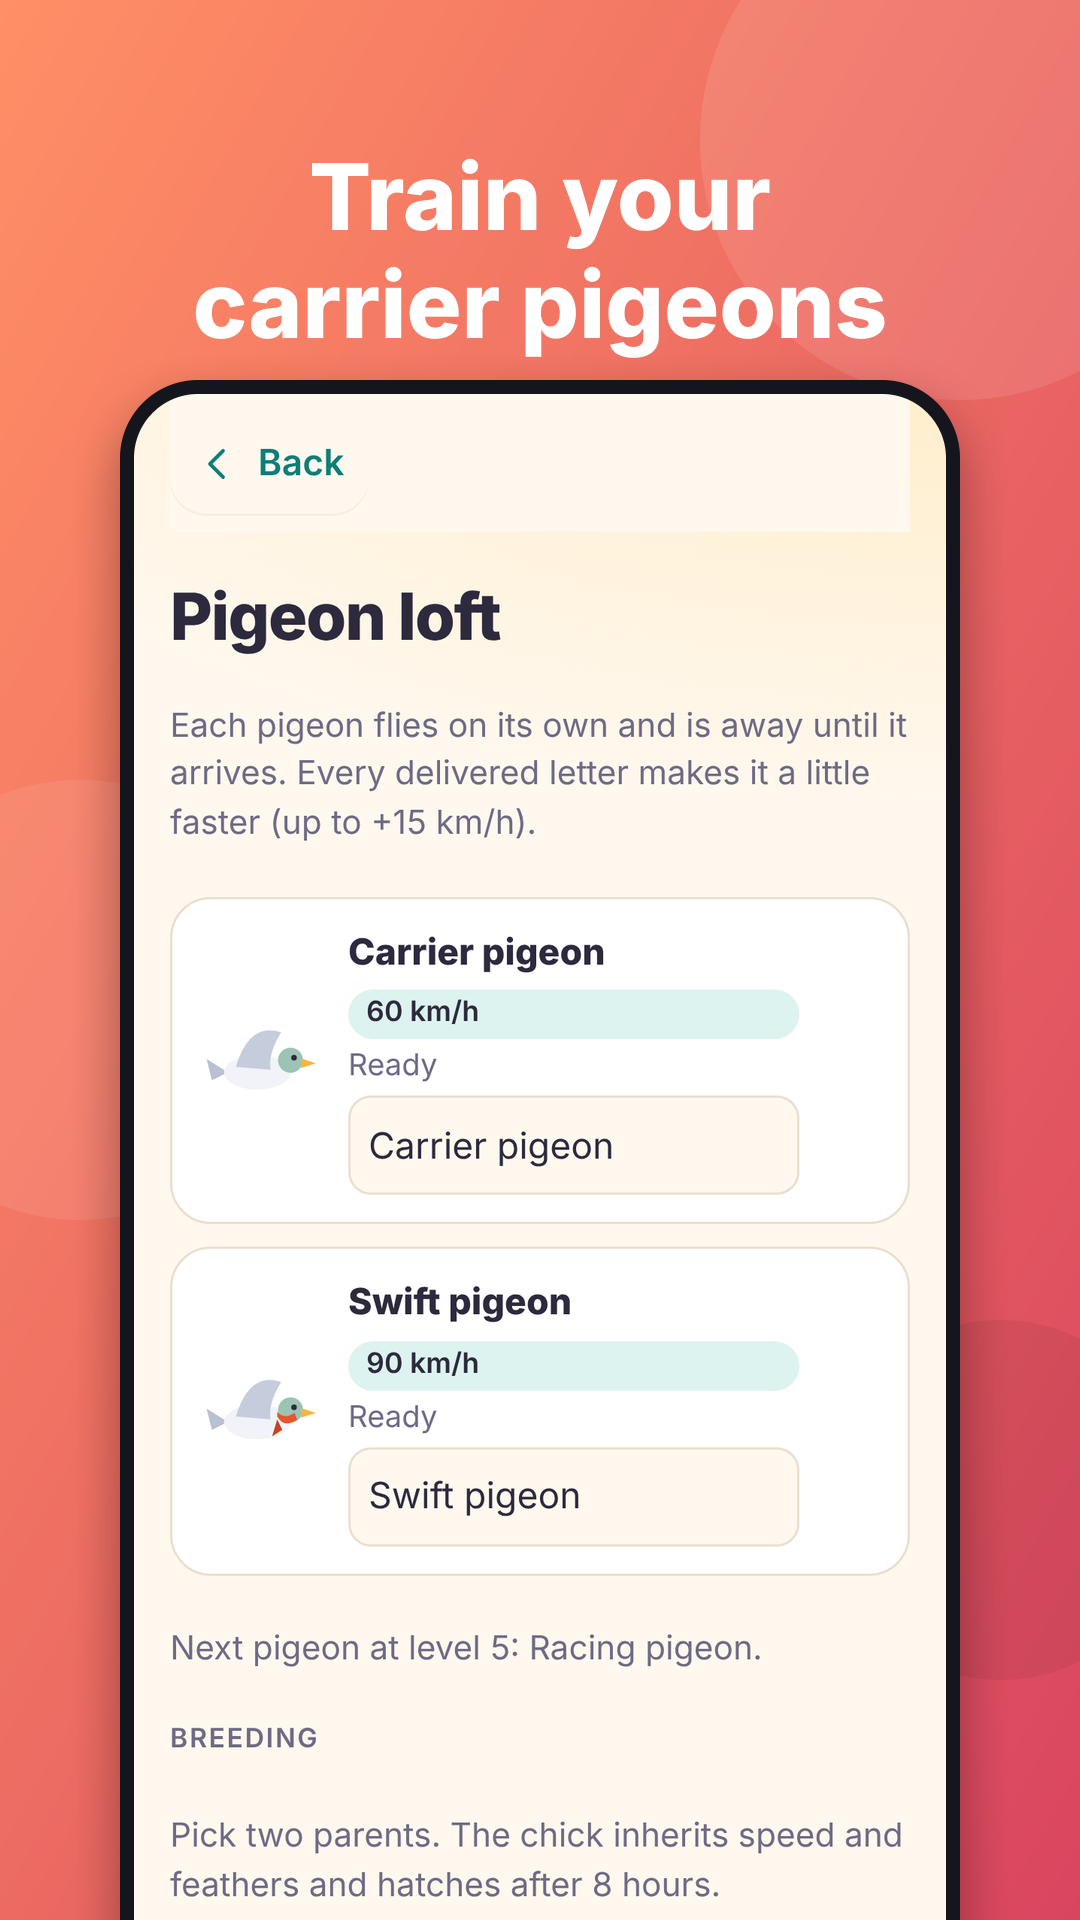
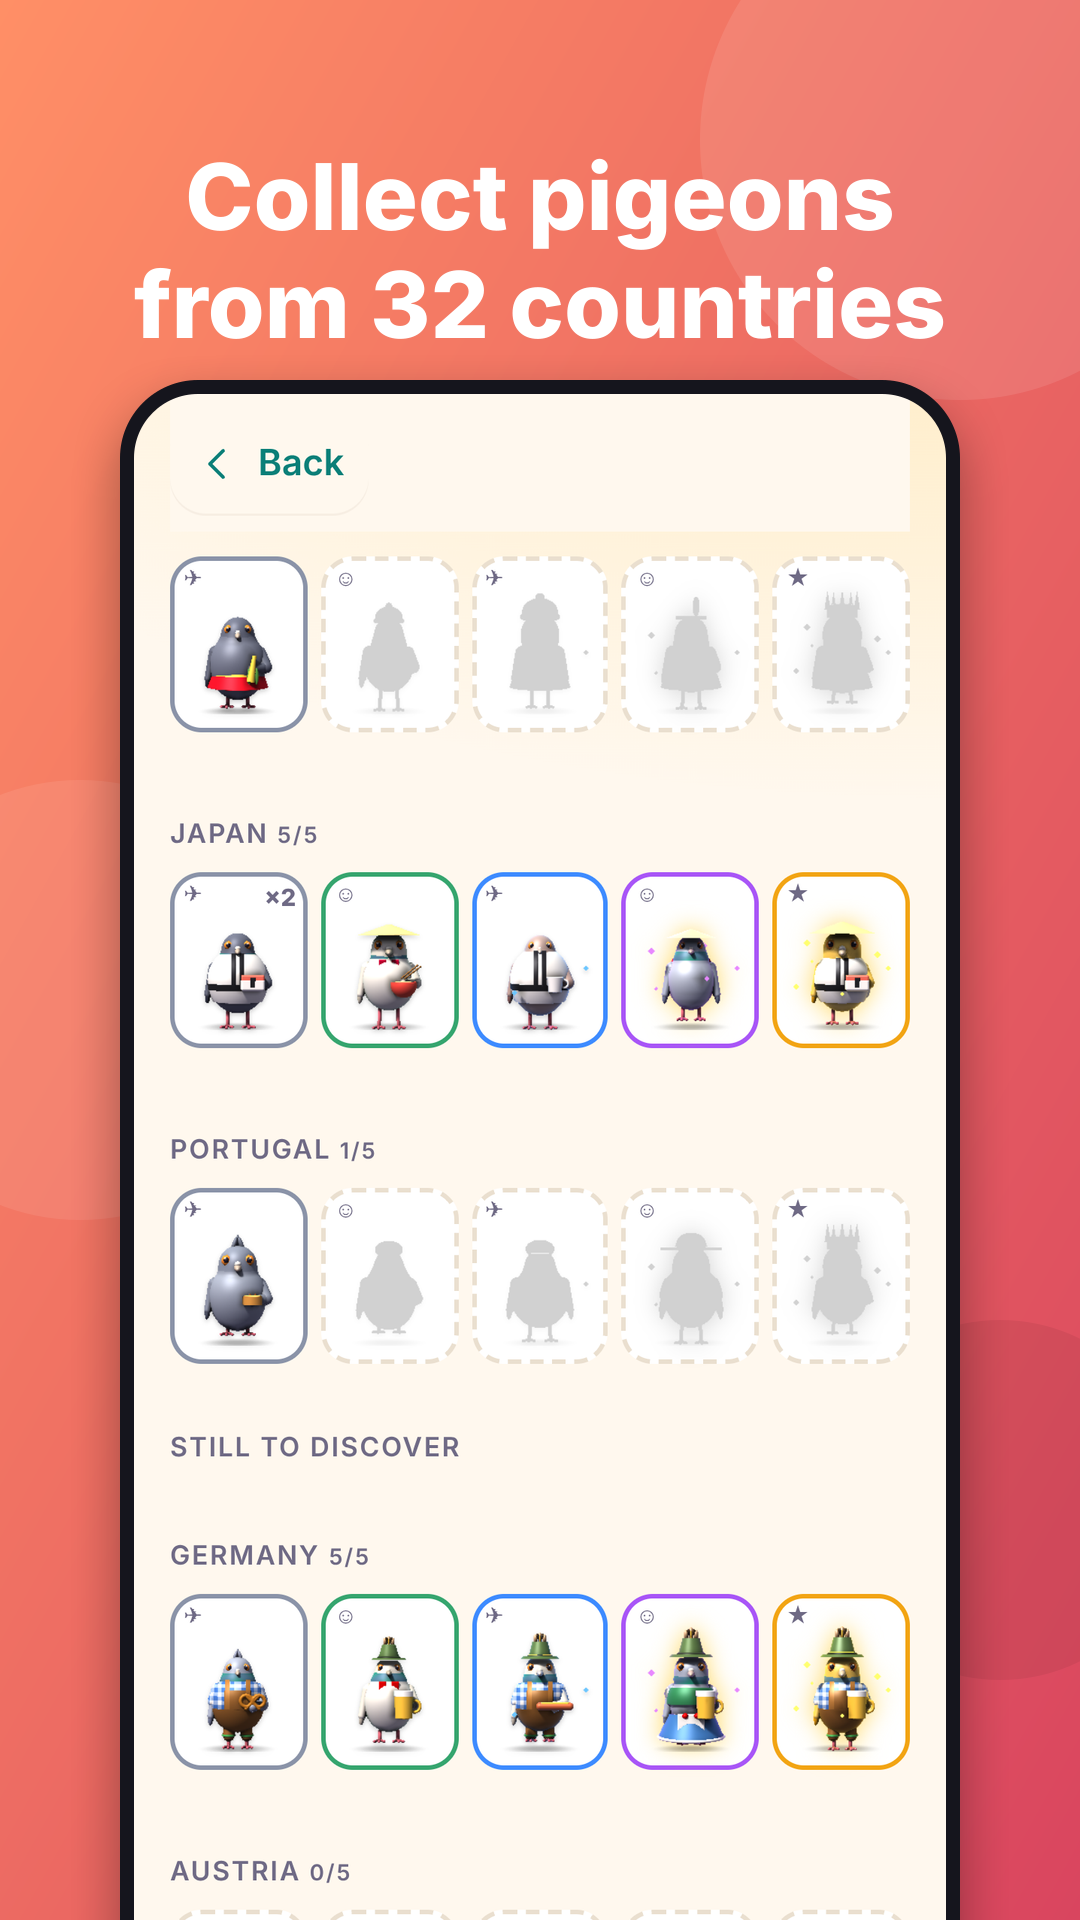
Play-Store: neue Taubendex-Screenshots, ausführliche Veröffentlichungs-Anleitung
Claude-Session: https://claude.ai/code/session_01Ppo7auZkduvcwBmJg8G76E

diff --git a/store/PLAY-CHECKLISTE.md b/store/PLAY-CHECKLISTE.md
@@ -1,12 +1,41 @@
-# Play-Store-Checkliste Waypals (Stand 17.10.2026)
+# Google Play Veröffentlichung – Waypals (Stand 19.10.2026)
 
-Ich kann hier kein Android-Paket bauen und mich nicht in dein Play-Konto einloggen; diese Schritte musst du selbst klicken (je ca. 5 Minuten):
+Bereit (von mir erledigt): Texte, Grafiken, Formular-Antworten, Datenschutz- und Löschseite, Manifest, Icons, assetlinks-Vorlage.
+Von dir zu klicken (kann ich nicht: kein Zugang zu deinem Play-Konto, kein Android-Build hier): Schritte A–F.
 
-1. Play-Entwicklerkonto anlegen (25 US-$, Identitätsprüfung) – https://play.google.com/console
-2. Paket bauen: https://www.pwabuilder.com → URL https://loliskos-hash.github.io/Waypals/ → Package for stores → Android. Paketname z. B. de.ludeldoo.waypals. Die .aab-Datei und den SHA-256-Fingerabdruck sichern (Schlüssel + Passwort gut aufheben!).
-3. Fingerabdruck und Paketname in .well-known/assetlinks.json eintragen (aktuell noch Platzhalter) – schick mir beides, dann trage ich es ein und pushe. Bei Play App Signing zusätzlich den Fingerabdruck aus der Play Console (Einrichtung → App-Signatur) ergänzen.
-4. App erstellen, .aab in den Test-Track „Geschlossener Test“ hochladen.
-5. 12 Tester per E-Mail eintragen; sie müssen 14 Tage lang angemeldet bleiben, erst dann „Produktion beantragen“.
-6. Texte: store/store-listing.md (jetzt inkl. Taubendex). Grafiken: store/ bzw. Ordner store-upload.
-7. Pflichtformulare: Datenschutz-URL, Datensicherheit, Inhaltseinstufung, Zielgruppe 16+, Konto-Löschung (URL steht in store-listing.md).
-8. Namens-Check: siehe Markenprüfung – vor dem Start entscheiden.
+## Vorab: Namensentscheidung
+Siehe Markenprüfung: „Waypals“ kann mit bestehenden Marken kollidieren. Entscheide vor dem Anlegen der App – der Name lässt sich später nur eingeschränkt ändern. Der Paketname (z. B. de.ludeldoo.waypals) ist dauerhaft.
+
+## A. Konto
+1. https://play.google.com/console → Entwicklerkonto (einmalig 25 US-$), Typ „Privatperson“ oder „Organisation“ (Ludeldoo). Identitätsprüfung (Ausweis, ggf. D-U-N-S bei Organisation).
+2. Bei neuen privaten Konten gilt: 12 Tester, 14 Tage geschlossener Test, bevor Produktion freigeschaltet wird.
+
+## B. Paket bauen (PWABuilder, kostenlos)
+1. https://www.pwabuilder.com → https://loliskos-hash.github.io/Waypals/ eingeben → Package for stores → Android (Google Play).
+2. Paketname: de.ludeldoo.waypals · App-Name: Waypals · Start-URL / Version 1 · „Signing key: New“ wählen.
+3. Download: .aab-Datei + Signing-Key (.keystore) + Passwort. Alles sicher sichern (verlorener Key = keine Updates).
+4. SHA-256-Fingerabdruck aus der Zip-Datei (signing-key-info.txt) notieren.
+
+## C. assetlinks (damit die App ohne Browserleiste läuft)
+Schick mir Paketname + SHA-256 (und den Fingerabdruck der Play-App-Signatur aus Play Console → Einrichtung → App-Integrität, sobald vorhanden). Ich trage beides in .well-known/assetlinks.json ein und pushe. Aktuell stehen dort Platzhalter.
+
+## D. App anlegen
+1. Play Console → App erstellen: Name, Sprache Deutsch, App, kostenlos.
+2. Store-Eintrag: Texte aus store-listing.md; Icon app-icon-512.png; Feature-Grafik feature-graphic-1024x500.png; Handy-Screenshots store/promo/ (8 Stück, 1080×1920 mit Rahmen) oder screenshot-1..4; Tablet-Screenshots store/promo-tablet/ (7"/10").
+3. Kategorie: Soziales Netzwerk oder Lifestyle. Kontakt-E-Mail: laura.kaesenheimer@gmail.com (oder Firmenadresse).
+4. Datenschutz-URL: https://loliskos-hash.github.io/Waypals/datenschutz.html
+
+## E. Pflichtformulare (Antworten siehe store-listing.md)
+- Datensicherheit: Name, E-Mail, Fotos, Nutzer-ID, App-Aktivität werden erhoben; zur App-Funktion/Kontoverwaltung; kein Verkauf, keine Werbung; verschlüsselt übertragen; Löschung auf Anfrage möglich. Lösch-URL: https://loliskos-hash.github.io/Waypals/loeschen.html
+- Inhaltseinstufung (IARC): Kategorie „Soziale Netzwerke/Kommunikation“; Nutzerinteraktion: ja; Standort teilen: nur wenn so implementiert (Heimatorte sind Texteingaben); keine Gewalt, Glücksspiel, Drogen. Ergebnis voraussichtlich ab 12.
+- Zielgruppe: 16+ (nicht an Kinder gerichtet). Anzeigen: Nein. Finanz-/Gesundheits-Funktionen: Nein. Nachrichten-/Regierungs-App: Nein.
+- Berechtigungen: Kamera/Fotos nur über Datei-Auswahl; Benachrichtigungen aktuell nicht erforderlich.
+
+## F. Tests und Veröffentlichung
+1. Test → Geschlossener Test → Release erstellen → .aab hochladen → 12 Tester per E-Mail (Google-Konten) eintragen, Test-Link an sie schicken; sie müssen 14 Tage angemeldet bleiben.
+2. Nach 14 Tagen: „Produktionszugriff beantragen“ → Fragebogen → Prüfung (meist wenige Tage).
+3. Produktion → Release erstellen, Länder wählen → Zur Prüfung senden.
+
+## Technisch bekannt
+- Die 3D-Tauben nutzen WebGL; auf sehr alten Geräten ohne WebGL fallen sie automatisch auf die 2D-Grafik zurück.
+- Google-Anmeldung: In Firebase die autorisierten Domains prüfen (loliskos-hash.github.io). Bei der Android-App ggf. die Play-Signatur-SHA-1 in Firebase eintragen, falls die Anmeldung dort scheitert.
